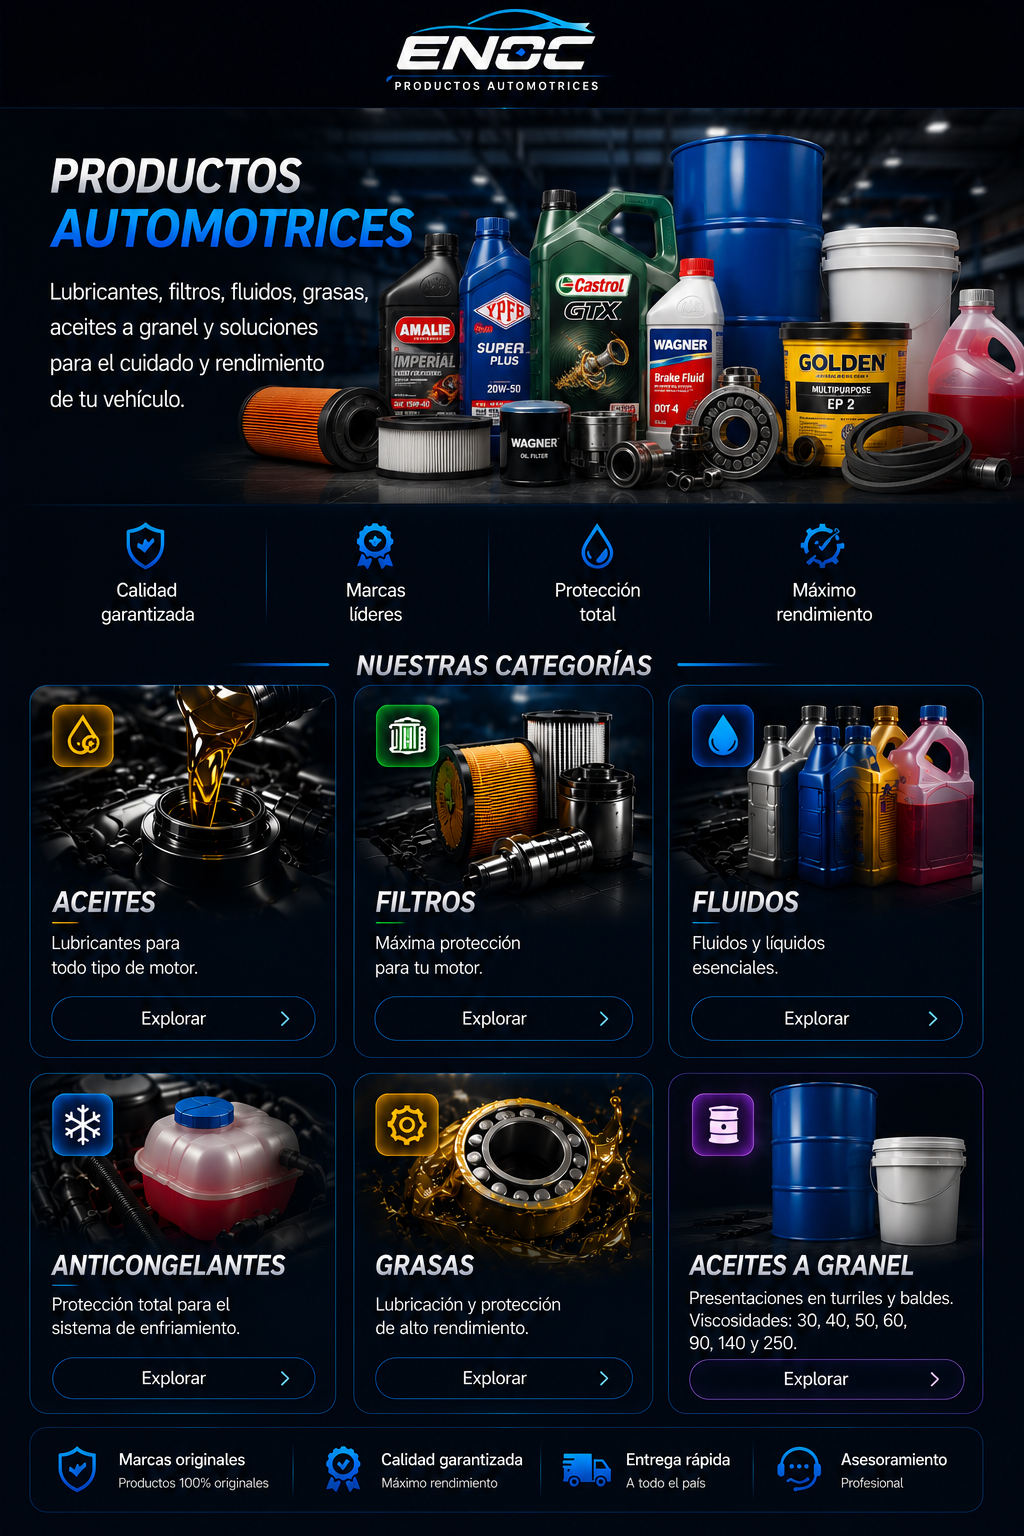
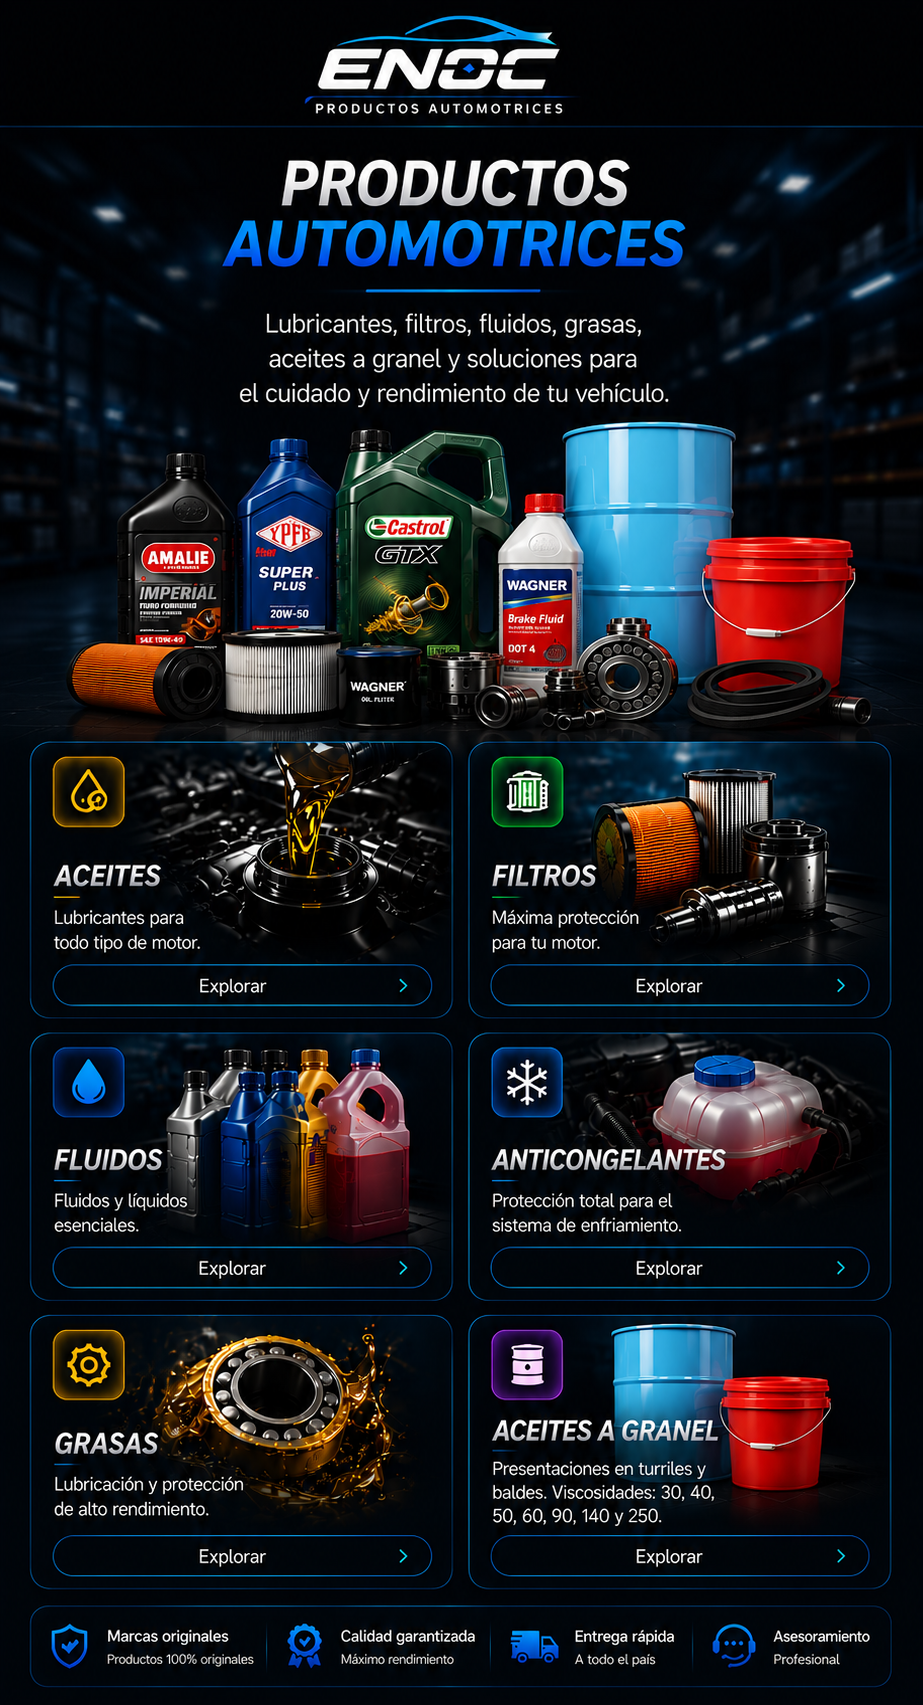
v4030726

diff --git a/catalogo/style.css b/catalogo/style.css
@@ -121,45 +121,47 @@ z-index:20;
 
 .btn-aceites{
 left:3%;
-top:44.5%;
-width:30%;
-height:24.5%;
+top:43.5%;
+width:45.5%;
+height:16%;
 }
 
 .btn-filtros{
-left:34.5%;
-top:44.5%;
-width:29.5%;
-height:24.5%;
+left:51%;
+top:43.5%;
+width:45%;
+height:16%;
 }
 
 .btn-fluidos{
-left:65.2%;
-top:44.5%;
-width:31%;
-height:24.5%;
+left:3%;
+top:60.8%;
+width:45%;
+height:15%;
 }
 
 .btn-anticongelantes{
-left:3%;
-top:70%;
-width:30%;
-height:22%;
+left:51%;
+top:60.8%;
+width:45%;
+height:15%;
 }
 
 .btn-grasas{
-left:34.5%;
-top:70%;
-width:29.5%;
-height:22%;
+left:3.3%;
+top:77%;
+width:45%;
+height:16%;
 }
 
 .btn-granel{
-left:65%;
-top:70%;
-width:31%;
-height:22%;
+left:51%;
+top:77%;
+width:45%;
+height:16%;
 }
+
+
 
 
 
